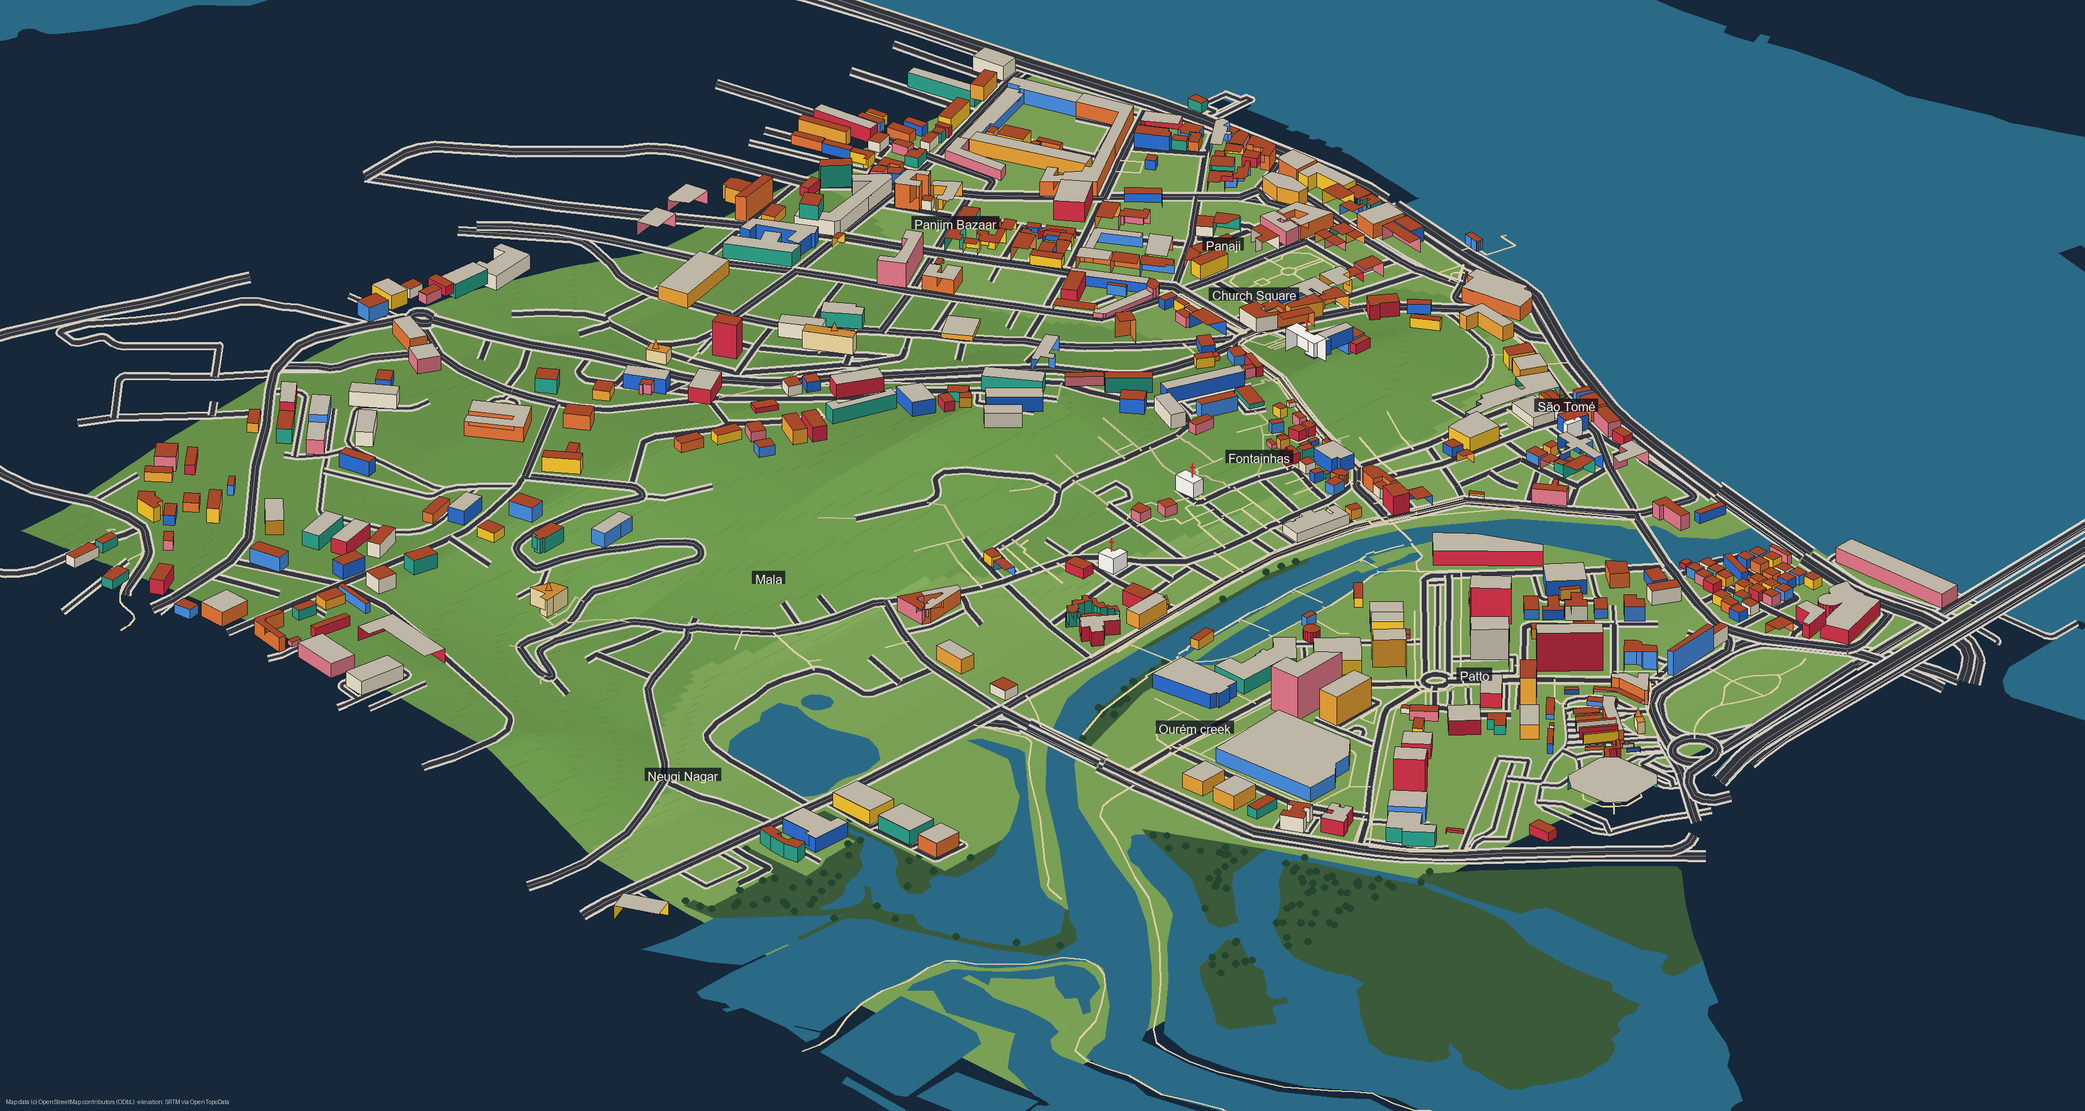
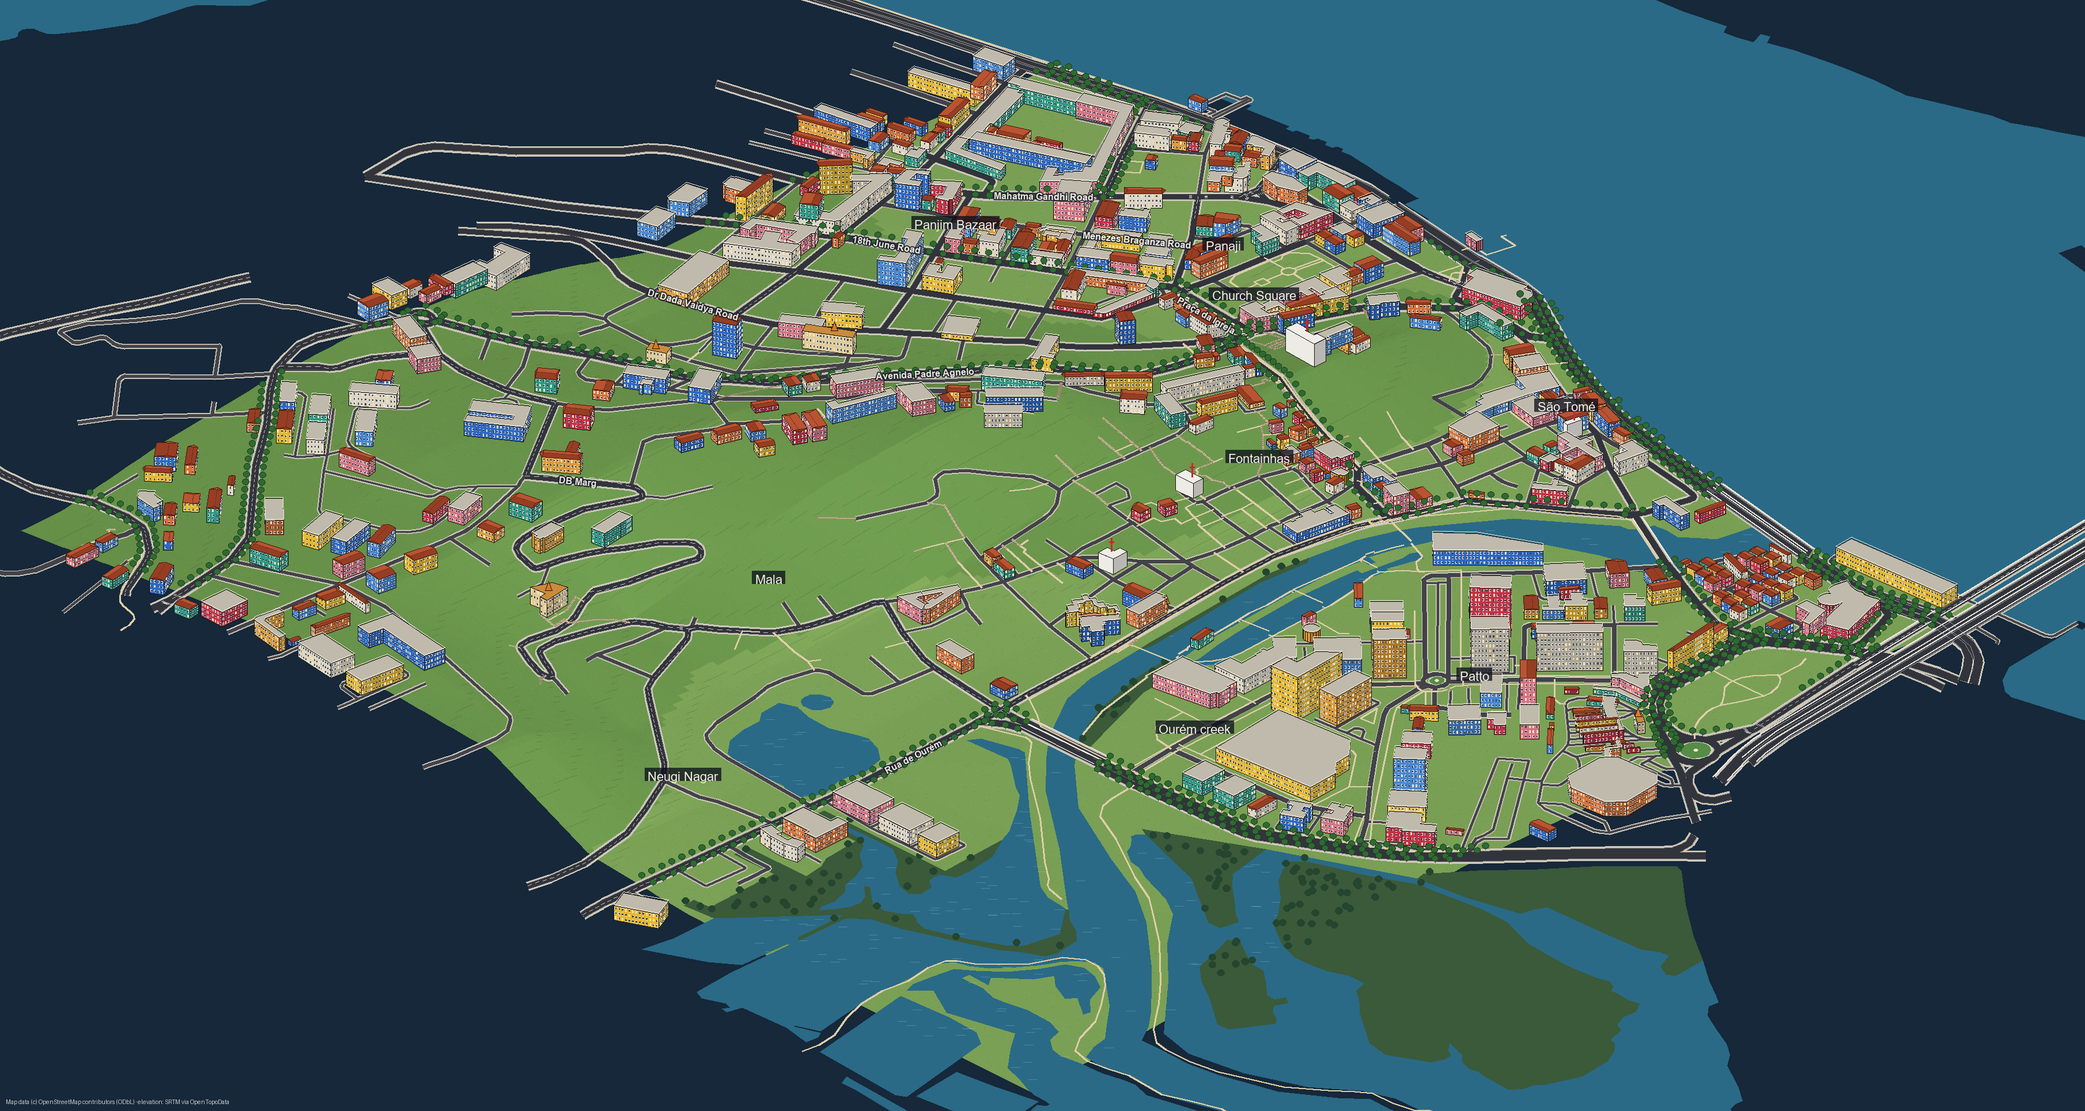
Panaji mock: street hierarchy, names, crossings, avenue trees, windows and tile roofs
Roads take truer widths by class with pavements and kerbs, dashed centre
lines on two-way main roads, edge lines on the dual carriageways, zebra
crossings at main junctions and gardens inside roundabouts; steps get
treads. Street names run along the main roads. Rain trees and palms line
the riverfront and the big roads. Buildings show every wall that faces
the viewer whichever way the outline was drawn, a row of windows per
floor, ridged Mangalore tile roofs on small houses and parapets on
terraces. Grass and water get texture.

diff --git a/tools/mock_real.py b/tools/mock_real.py
@@ -61,7 +61,8 @@ def inside(pts, pad=60):
 
 # ---- sort the map data into what the mock draws ----
 water, mangroves, marsh, buildings, roads, paths, worship = [], [], [], [], [], [], []
-ROADW = {'trunk': 18, 'primary': 14, 'secondary': 11, 'tertiary': 9, 'unclassified': 7, 'residential': 6.5, 'living_street': 5, 'service': 4.5}
+ROADW = {'trunk': 16, 'trunk_link': 8, 'primary': 12, 'primary_link': 7, 'secondary': 10, 'secondary_link': 6, 'tertiary': 8, 'tertiary_link': 5,
+         'unclassified': 6, 'residential': 5, 'living_street': 4.5, 'service': 3.5}
 for e in els:
     t = e.get('tags', {})
     if t.get('natural') == 'water' or t.get('waterway') in ('riverbank',):
@@ -84,7 +85,7 @@ for e in els:
     if hw and e['type'] == 'way':
         pts = [xy(p['lat'], p['lon']) for p in e.get('geometry') or [] if p]
         if len(pts) > 1 and inside(pts):
-            if hw in ROADW: roads.append({'p': pts, 'w': ROADW[hw], 'bridge': bool(t.get('bridge')), 'hw': hw, 'name': t.get('name', '')})
+            if hw in ROADW: roads.append({'p': pts, 'w': ROADW[hw], 'bridge': bool(t.get('bridge')), 'hw': hw, 'name': t.get('name', ''), 'round': t.get('junction') in ('roundabout', 'circular'), 'oneway': t.get('oneway') == 'yes'})
             elif hw in ('footway', 'path', 'steps', 'pedestrian', 'track', 'cycleway'): paths.append({'p': pts, 'steps': hw == 'steps', 'bridge': bool(t.get('bridge'))})
     if t.get('amenity') == 'place_of_worship':
         for r in rings(e) if e['type'] != 'node' else []:
@@ -92,6 +93,41 @@ for e in els:
 print(f'{len(buildings)} buildings, {len(worship)} temples/churches, {len(roads)} roads ({sum(r["bridge"] for r in roads)} bridges), {len(paths)} paths, {len(water)} water, {len(mangroves)} mangrove, {len(marsh)} marsh areas')
 WORSHIP_IDS = {id(w['r']) for w in worship}
 wpoly = [w['r'] for w in worship]
+
+
+def hyp2(a, b):
+    return math.hypot(a[0] - b[0], a[1] - b[1])
+
+
+def inpoly(r, px, py):
+    n = len(r); inside_ = False; j = n - 1
+    for i in range(n):
+        if (r[i][1] > py) != (r[j][1] > py) and px < (r[j][0] - r[i][0]) * (py - r[i][1]) / (r[j][1] - r[i][1] + 1e-9) + r[i][0]: inside_ = not inside_
+        j = i
+    return inside_
+
+
+def offset(pts, dist):
+    """A polyline moved `dist` metres to its left."""
+    out = []
+    for i, (x, y) in enumerate(pts):
+        a = pts[max(0, i - 1)]; b = pts[min(len(pts) - 1, i + 1)]
+        L = math.hypot(b[0] - a[0], b[1] - a[1]) or 1
+        out.append((x - (b[1] - a[1]) / L * dist, y + (b[0] - a[0]) / L * dist))
+    return out
+
+
+def along(pts, step):
+    """Points every `step` metres along a polyline, with the direction there."""
+    out, carry = [], 0.0
+    for (ax, ay), (bx, by) in zip(pts, pts[1:]):
+        L = math.hypot(bx - ax, by - ay)
+        if L == 0: continue
+        k = carry
+        while k < L:
+            t = k / L; out.append((ax + (bx - ax) * t, ay + (by - ay) * t, (bx - ax) / L, (by - ay) / L)); k += step
+        carry = k - L
+    return out
 
 
 def render(name, x0, y0, x1, y1, scale, zscale, labels):
@@ -117,6 +153,12 @@ def render(name, x0, y0, x1, y1, scale, zscale, labels):
             d.polygon([P(xx, yy, h00), P(xx + cell, yy, h10), P(xx + cell, yy + cell, h11), P(xx, yy + cell, h01)], fill=col)
             xx += cell
         yy += cell
+    # grass: a scatter of darker and lighter blades
+    rnd = random.Random(11)
+    for _ in range(int((x1 - x0) * (y1 - y0) / 60)):
+        gx, gy = rnd.uniform(x0, x1), rnd.uniform(y0, y1)
+        px, py = P(gx, gy)
+        d.point((px, py), fill=(70, 110, 50, 120) if rnd.random() < 0.6 else (170, 200, 120, 90))
     # contour hints every 10 m
     for yy2 in range(int(y0), int(y1), int(cell)):
         for xx2 in range(int(x0), int(x1), int(cell)):
@@ -128,6 +170,16 @@ def render(name, x0, y0, x1, y1, scale, zscale, labels):
         if inbox(r): poly(r, (120, 140, 90))
     for r in water:
         if inbox(r): poly(r, (42, 106, 134))
+    # ripples catching the light on the open water
+    rnd = random.Random(5)
+    for r in water:
+        if not inbox(r): continue
+        xs_, ys_ = [q[0] for q in r], [q[1] for q in r]
+        for _ in range(int(min(600, (max(xs_) - min(xs_)) * (max(ys_) - min(ys_)) / 900))):
+            wx, wy = rnd.uniform(min(xs_), max(xs_)), rnd.uniform(min(ys_), max(ys_))
+            if x0 <= wx <= x1 and y0 <= wy <= y1 and inpoly(r, wx, wy):
+                a, b2 = P(wx, wy, 0), P(wx + 6, wy - 6, 0)
+                d.line([a, b2], fill=(170, 210, 230, 70), width=1)
     for r in mangroves:
         if inbox(r):
             poly(r, (58, 90, 58))
@@ -145,51 +197,150 @@ def render(name, x0, y0, x1, y1, scale, zscale, labels):
             if inside_:
                 cx, cy = P(px, py, 0); rr = max(2, 5 * scale)
                 d.ellipse([cx - rr, cy - rr * 2.2, cx + rr, cy - rr * 0.4], fill=(36, 69, 46))
-    # roads: pavement, kerb, asphalt, centre line; footpaths dashed; steps hatched; bridges lifted with railings
+    # roads: pavement, kerb, asphalt, dashed centre line; bridges lifted with railings
     def line(pts, w, col, z=None):
-        d.line([P(x, y, z) for x, y in pts], fill=col, width=max(1, int(w)), joint='curve')
-    for r in sorted(roads, key=lambda r: r['w']):
-        if not inbox(r['p']): continue
+        d.line([P(x, y, z) for x, y in pts], fill=col, width=max(1, int(round(w))), joint='curve')
+    vis = [r for r in roads if inbox(r['p'])]
+    for r in sorted(vis, key=lambda r: r['w']):                       # pavements, wider for the bigger roads
+        line(r['p'], (r['w'] + (5 if r['w'] >= 8 else 3)) * scale, (206, 200, 188), 6 if r['bridge'] else None)
+    for r in sorted(vis, key=lambda r: r['w']):                       # kerb
+        line(r['p'], (r['w'] + 0.8) * scale, (168, 162, 150), 6 if r['bridge'] else None)
+    for r in sorted(vis, key=lambda r: r['w']):                       # asphalt
+        line(r['p'], r['w'] * scale, (50, 52, 60) if r['w'] >= 8 else (66, 66, 72), 6 if r['bridge'] else None)
+    for r in vis:                                                     # dashed centre lines on two-way main roads
+        if r['w'] < 8 or r['oneway'] or r['round']: continue
         z = 6 if r['bridge'] else None
-        line(r['p'], (r['w'] + 6) * scale, (214, 208, 196), z)
-        line(r['p'], (r['w'] + 1.5) * scale, (186, 180, 168), z)
-        line(r['p'], r['w'] * scale, (52, 54, 62), z)
-        if r['w'] >= 9:
-            line(r['p'], max(1, scale * 0.5), (242, 239, 230, 150), z)
+        for (px, py, ux, uy) in along(r['p'], 9):
+            line([(px, py), (px + ux * 4.5, py + uy * 4.5)], max(1, scale * 0.45), (242, 239, 230, 200), z)
+    for r in vis:                                                     # edge lines on the dual carriageways
+        if r['hw'] in ('trunk', 'primary') and not r['round']:
+            for side in (-1, 1): line(offset(r['p'], side * (r['w'] / 2 - 0.8)), max(1, scale * 0.35), (242, 239, 230, 140), 6 if r['bridge'] else None)
+    for r in vis:
         if r['bridge']:
-            for side in (-1, 1):
-                pts = r['p']
-                off = []
-                for (ax, ay), (bx, by) in zip(pts, pts[1:]):
-                    L = math.hypot(bx - ax, by - ay) or 1; nx_, ny_ = -(by - ay) / L, (bx - ax) / L
-                    off.append((ax + nx_ * side * r['w'] / 2, ay + ny_ * side * r['w'] / 2)); off.append((bx + nx_ * side * r['w'] / 2, by + ny_ * side * r['w'] / 2))
-                line(off, max(1.5, scale * 0.6), (240, 236, 226), 7.5)
+            for side in (-1, 1): line(offset(r['p'], side * r['w'] / 2), max(1.5, scale * 0.6), (240, 236, 226), 7.5)
+    # roundabouts: the garden inside the ring
+    for r in vis:
+        if r['round'] and len(r['p']) > 4 and math.hypot(r['p'][0][0] - r['p'][-1][0], r['p'][0][1] - r['p'][-1][1]) < 2:
+            cx = sum(q[0] for q in r['p']) / len(r['p']); cy = sum(q[1] for q in r['p']) / len(r['p'])
+            rad = sum(math.hypot(q[0] - cx, q[1] - cy) for q in r['p']) / len(r['p']) - r['w'] / 2 - 1
+            if rad > 2:
+                ring = [(cx + math.cos(k / 24 * math.tau) * rad, cy + math.sin(k / 24 * math.tau) * rad) for k in range(24)]
+                d.polygon([P(x, y) for x, y in ring], fill=(214, 208, 196))
+                ring2 = [(cx + math.cos(k / 24 * math.tau) * (rad - 1.2), cy + math.sin(k / 24 * math.tau) * (rad - 1.2)) for k in range(24)]
+                d.polygon([P(x, y) for x, y in ring2], fill=(86, 140, 70))
+                fx, fy = P(cx, cy); d.ellipse([fx - 3 * scale, fy - 1.5 * scale, fx + 3 * scale, fy + 1.5 * scale], fill=(240, 230, 200))
+    # zebra crossings where two main roads meet: stripes across each road just short of the junction
+    ends = {}
+    for r in vis:
+        if r['w'] < 8 or r['round']: continue
+        for i in (0, -1):
+            k = (round(r['p'][i][0]), round(r['p'][i][1]))
+            ends.setdefault(k, []).append((r, i))
+    for k, lst in ends.items():
+        if len(lst) < 3: continue
+        for r, i in lst:
+            pts = r['p'] if i == 0 else r['p'][::-1]
+            ax, ay = pts[0]; bx, by = pts[1]; L = math.hypot(bx - ax, by - ay)
+            if L < r['w'] + 6: continue
+            ux, uy = (bx - ax) / L, (by - ay) / L; nx_, ny_ = -uy, ux
+            cxz, cyz = ax + ux * (r['w'] / 2 + 3.5), ay + uy * (r['w'] / 2 + 3.5)
+            for j in range(-int(r['w'] / 2) + 1, int(r['w'] / 2), 1):
+                if j % 2: continue
+                p0 = (cxz + nx_ * j - ux * 1.2, cyz + ny_ * j - uy * 1.2); p1 = (cxz + nx_ * j + ux * 1.2, cyz + ny_ * j + uy * 1.2)
+                line([p0, p1], max(1, scale * 0.8), (244, 242, 236, 230))
+    # avenue trees: rain trees and palms along the riverfront and the big roads, on the pavements
+    rnd = random.Random(21)
+    avenue = [r for r in vis if r['w'] >= 10 and not r['bridge'] and not r['round']]
+    trees = []
+    for r in avenue:
+        for side in (-1, 1):
+            for (px, py, ux, uy) in along(offset(r['p'], side * (r['w'] / 2 + 3)), 14 if r['hw'] != 'trunk' else 22):
+                if not (x0 <= px <= x1 and y0 <= py <= y1): continue
+                if any(inpoly(wr, px, py) for wr in water if inbox(wr)): continue
+                trees.append((px, py, 'palm' if 'Bandodkar' in r['name'] and rnd.random() < 0.5 else 'rain'))
     for pth in paths:
         if not inbox(pth['p']): continue
         z = 6 if pth['bridge'] else None
-        line(pth['p'], max(1.5, 2.5 * scale), (222, 206, 168) if not pth['steps'] else (200, 186, 150), z)
+        line(pth['p'], max(1.5, 2.2 * scale), (222, 206, 168), z)
+        if pth['steps']:   # steps: treads across the path
+            for (px, py, ux, uy) in along(pth['p'], 1.2):
+                line([(px - uy * 1.2, py + ux * 1.2), (px + uy * 1.2, py - ux * 1.2)], 1, (150, 136, 108), z)
     # buildings, back to front, with real outlines extruded by their levels; temples and churches stand out
     LV = 3.2
     blds = [b for b in buildings if inbox(b['r'])]
     blds.sort(key=lambda b: sum(x + y for x, y in b['r']) / len(b['r']))
+    rnd = random.Random(9)
+    def draw_tree(px, py, kind):
+        bx_, by_ = P(px, py)
+        if kind == 'palm':
+            tx, ty = P(px, py, height(px, py) + 9)
+            d.line([(bx_, by_), (tx, ty)], fill=(107, 74, 38), width=max(1, int(scale * 0.8)))
+            for k in range(7):
+                a = k / 7 * math.tau; d.line([(tx, ty), (tx + math.cos(a) * 5 * scale, ty + math.sin(a) * 2.5 * scale + 2 * scale)], fill=(63, 138, 58), width=max(1, int(scale)))
+        else:
+            rr = 4.5 * scale
+            d.line([(bx_, by_), (bx_, by_ - 3 * scale)], fill=(90, 64, 48), width=max(1, int(scale)))
+            d.ellipse([bx_ - rr, by_ - 3 * scale - rr * 1.5, bx_ + rr, by_ - 3 * scale + rr * 0.3], fill=(47, 106, 50), outline=(26, 58, 28))
+    items = [(sum(x + y for x, y in b['r']) / len(b['r']), 'b', b) for b in blds] + [(tx + ty, 't', (tx, ty, kd)) for tx, ty, kd in trees]
+    items.sort(key=lambda it: it[0])
+    blds_in_order = items
     palette = [(242, 194, 48), (224, 118, 58), (47, 111, 208), (232, 224, 204), (47, 160, 138), (232, 163, 58), (208, 52, 74), (224, 122, 138), (74, 143, 224)]
-    for b in blds:
+    for _, kind, b in blds_in_order:
+        if kind == 't':
+            draw_tree(*b); continue
         r = b['r']; t = b['tags']
         church = t.get('building') in ('church', 'chapel', 'cathedral') or t.get('amenity') == 'place_of_worship' and t.get('religion') == 'christian' or any(r is w for w in wpoly)
         temple = t.get('building') == 'temple' or (t.get('amenity') == 'place_of_worship' and t.get('religion') == 'hindu')
         base = min(height(x, y) for x, y in r)
         top = base + b['lv'] * LV * (1.6 if church else 1.2 if temple else 1)
         col = (250, 248, 242) if church else (236, 214, 160) if temple else palette[hash(id(b)) % len(palette)]
-        # walls: each edge facing the viewer (+x or +y in the 2:1 view)
+        # walls: each edge whose outside faces the viewer (toward +x+y in the 2:1 view), with a row of windows per floor
+        edges = []
         for (ax, ay), (bx, by) in zip(r, r[1:] + r[:1]):
-            nx_, ny_ = by - ay, -(bx - ax)
-            if nx_ + ny_ <= 0 and -(nx_ + ny_) <= 0: continue
-            facing = (nx_ + ny_) > 0
-            if not facing: continue
+            L = math.hypot(bx - ax, by - ay)
+            if L < 0.3: continue
+            nx_, ny_ = (by - ay) / L, -(bx - ax) / L
+            if inpoly(r, (ax + bx) / 2 + nx_ * 0.3, (ay + by) / 2 + ny_ * 0.3): nx_, ny_ = -nx_, -ny_
+            if nx_ + ny_ <= 0.02: continue
+            edges.append(((ax, ay), (bx, by), nx_, ny_, L))
+        edges.sort(key=lambda e: (e[0][0] + e[1][0] + e[0][1] + e[1][1]))
+        floors = max(1, int(round(b['lv'])))
+        for (ax, ay), (bx, by), nx_, ny_, L in edges:
             k = 0.95 if ny_ > nx_ else 0.74
             d.polygon([P(ax, ay, base), P(bx, by, base), P(bx, by, top), P(ax, ay, top)], fill=tuple(int(c * k) for c in col), outline=(26, 20, 16))
-        roofc = (240, 238, 232) if church else (200, 140, 60) if temple else (168, 73, 43) if b['area'] < 600 else (190, 182, 166)
+            if scale >= 0.9 and not church:
+                fh = (top - base) / floors
+                n = int(L / 3.4)
+                for f_ in range(floors):
+                    zc = base + f_ * fh + fh * 0.55
+                    for i in range(n):
+                        t0 = (i + 0.5) / n; wx, wy = ax + (bx - ax) * t0, ay + (by - ay) * t0
+                        ux, uy = (bx - ax) / L, (by - ay) / L
+                        q = [P(wx - ux * 0.55 + nx_ * 0.05, wy - uy * 0.55 + ny_ * 0.05, zc - fh * 0.22), P(wx + ux * 0.55 + nx_ * 0.05, wy + uy * 0.55 + ny_ * 0.05, zc - fh * 0.22),
+                             P(wx + ux * 0.55 + nx_ * 0.05, wy + uy * 0.55 + ny_ * 0.05, zc + fh * 0.22), P(wx - ux * 0.55 + nx_ * 0.05, wy - uy * 0.55 + ny_ * 0.05, zc + fh * 0.22)]
+                        d.polygon(q, fill=(246, 242, 234))
+                        inner = [(q[0][0] * 0.8 + q[2][0] * 0.2, q[0][1] * 0.8 + q[2][1] * 0.2), (q[1][0] * 0.8 + q[3][0] * 0.2, q[1][1] * 0.8 + q[3][1] * 0.2),
+                                 (q[2][0] * 0.8 + q[0][0] * 0.2, q[2][1] * 0.8 + q[0][1] * 0.2), (q[3][0] * 0.8 + q[1][0] * 0.2, q[3][1] * 0.8 + q[1][1] * 0.2)]
+                        d.polygon(inner, fill=(255, 214, 140) if rnd.random() < 0.18 else (58, 70, 86))
+        # roofs: small, simple buildings get a ridged Mangalore tile roof; big ones a flat terrace with a parapet
+        tiled = not church and not temple and b['area'] < 600 and len(r) <= 6
+        roofc = (240, 238, 232) if church else (200, 140, 60) if temple else (168, 73, 43) if tiled else (192, 186, 172)
         d.polygon([P(x, y, top) for x, y in r], fill=roofc, outline=(26, 20, 16))
+        if tiled:
+            # the ridge runs along the long axis, raised a little; tile courses parallel to it
+            sides = sorted(((math.hypot(r[(i + 1) % len(r)][0] - r[i][0], r[(i + 1) % len(r)][1] - r[i][1]), i) for i in range(len(r))), reverse=True)
+            i = sides[0][1]; (ax, ay), (bx, by) = r[i], r[(i + 1) % len(r)]
+            cx = sum(x for x, y in r) / len(r); cy = sum(y for x, y in r) / len(r)
+            ux, uy = (bx - ax) / (sides[0][0] or 1), (by - ay) / (sides[0][0] or 1)
+            half = sides[0][0] / 2 - min(sides[-1][0] / 2, sides[0][0] / 3)
+            rh = min(3.5, sides[-1][0] * 0.3)
+            r0, r1 = (cx - ux * half, cy - uy * half), (cx + ux * half, cy + uy * half)
+            for (ex0, ey0), (ex1, ey1) in zip(r, r[1:] + r[:1]):
+                d.polygon([P(ex0, ey0, top), P(ex1, ey1, top), P(*(r1 if (ex1 - cx) * ux + (ey1 - cy) * uy > 0 else r0), top + rh), P(*(r1 if (ex0 - cx) * ux + (ey0 - cy) * uy > 0 else r0), top + rh)],
+                          fill=(150, 62, 36) if ((ex0 + ex1) / 2 - cx) + ((ey0 + ey1) / 2 - cy) > 0 else (184, 84, 50), outline=(70, 26, 12))
+            d.line([P(*r0, top + rh), P(*r1, top + rh)], fill=(122, 46, 24), width=max(1, int(scale)))
+        elif not church and not temple:
+            d.polygon([P(x, y, top + 0.8) for x, y in r], outline=(236, 232, 222))
         if church or temple:
             cx = sum(x for x, y in r) / len(r); cy = sum(y for x, y in r) / len(r)
             px, py = P(cx, cy, top)
@@ -206,6 +357,31 @@ def render(name, x0, y0, x1, y1, scale, zscale, labels):
         px, py = P(x, y, (z or 0) + height(x, y))
         tw = d.textlength(txt, font=f)
         d.rectangle([px - tw / 2 - 5, py - 12, px + tw / 2 + 5, py + 10], fill=(8, 12, 24, 190)); d.text((px - tw / 2, py - 10), txt, fill=(244, 239, 228), font=f)
+    # street names, laid along the road where it runs longest and straightest in view
+    try: sf = ImageFont.truetype('arialbd.ttf', max(11, int(10 * min(1.6, scale * 1.4))))
+    except OSError: sf = ImageFont.load_default()
+    named = {}
+    for r in vis:
+        if r['name'] and r['w'] >= 6 and not r['round']:
+            for (ax, ay), (bx, by) in zip(r['p'], r['p'][1:]):
+                L = math.hypot(bx - ax, by - ay)
+                if x0 + 20 < (ax + bx) / 2 < x1 - 20 and y0 + 20 < (ay + by) / 2 < y1 - 20 and L > named.get(r['name'], (0,))[0]:
+                    named[r['name']] = (L, (ax, ay), (bx, by), r)
+    placed = []
+    for nm, (L, (ax, ay), (bx, by), r) in sorted(named.items(), key=lambda kv: -kv[1][0]):
+        p0, p1 = P(ax, ay), P(bx, by)
+        tw = d.textlength(nm, font=sf)
+        if hyp2(p0, p1) < tw * 0.9: continue
+        mx, my = (p0[0] + p1[0]) / 2, (p0[1] + p1[1]) / 2
+        if any(abs(mx - qx) < 120 and abs(my - qy) < 30 for qx, qy in placed): continue
+        placed.append((mx, my))
+        ang = math.degrees(math.atan2(p1[1] - p0[1], p1[0] - p0[0]))
+        if ang > 90: ang -= 180
+        if ang < -90: ang += 180
+        lbl = Image.new('RGBA', (int(tw) + 10, 20), (0, 0, 0, 0)); ld = ImageDraw.Draw(lbl)
+        ld.text((5, 2), nm, font=sf, fill=(250, 246, 236, 235), stroke_width=2, stroke_fill=(30, 32, 40, 220))
+        rot = lbl.rotate(-ang, expand=True, resample=Image.BICUBIC)
+        img.paste(rot, (int(mx - rot.width / 2), int(my - rot.height / 2)), rot)
     d.text((10, Hpx - 22), 'Map data (c) OpenStreetMap contributors (ODbL) · elevation: SRTM via OpenTopoData', fill=(200, 200, 200), font=ImageFont.load_default())
     img.save(OUT / name)
     print('wrote', OUT / name, img.size)
